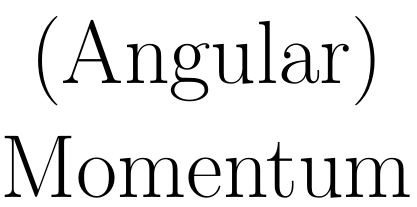
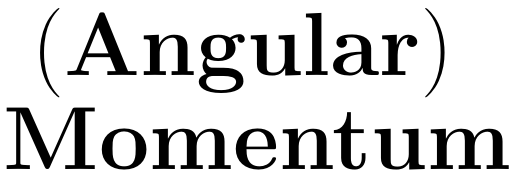
Add better text

Changed region(s): [[0.0, 0.6, 0.9976, 0.9714], [0.0624, 0.0571, 0.9041, 0.5714], [0.8106, 0.5143, 0.8417, 0.5714]]

diff --git a/examples/whatsamanifold/phasespace.html b/examples/whatsamanifold/phasespace.html
@@ -119,19 +119,19 @@
     angleLabel.position.set(0,-10,0.1);
 
     var heightLabel = makeTexPlane('height.png',243,93, 2);
-    heightLabel.position.set(0,-10,0.1);
+    heightLabel.position.set(0,-10,0.101);
 
     var velocityLabel = makeTexPlane('velocity.png',270,81, 2.5);
     velocityLabel.position.set(-9,0,0.1);
 
-    var momentumLabel = makeTexPlane('momentum.png',417,207, 3);
-    momentumLabel.position.set(-9,0,0.1);
+    var momentumLabel = makeTexPlane('momentum.png',513,175, 3);
+    momentumLabel.position.set(-9,0,0.101);
 
-    var angleZero = makeTexPlane('zero.png',51,52, 1);
+    var angleZero = makeTexPlane('zero.png',146,203, 0.5);
     //angleZero.position.set(0,-5.8,0.1);
     angleZero.position.set(0,-9,0.1);
 
-    var velocityZero = makeTexPlane('zero.png',51,52, 1);
+    var velocityZero = makeTexPlane('zero.png',146,203, 0.5);
     velocityZero.position.set(-7,0,0.1);
 
     var zeroGridLine = new THREE.Mesh(new THREE.PlaneGeometry(10, 0.2,1,1), new THREE.MeshBasicMaterial({ color:0x000000}));
